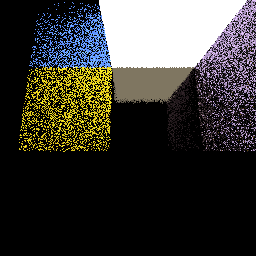
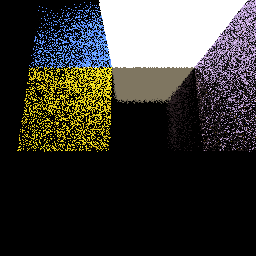
Cpu works!!

Changed region(s): [[0.0625, 0.0, 1.0, 0.5938], [0.5312, 0.25, 0.5625, 0.2812], [0.4688, 0.25, 0.5, 0.2812]]

diff --git a/src/bin.rs b/src/bin.rs
@@ -198,7 +198,7 @@ fn main() {
         Format::R16G16B16A16Unorm,
         Some(queue.family()),
     )
-    .unwrap();
+        .unwrap();
 
     let imagestep2 = StorageImage::new(
         device.clone(),
@@ -209,7 +209,7 @@ fn main() {
         Format::R16G16B16A16Unorm,
         Some(queue.family()),
     )
-    .unwrap();
+        .unwrap();
 
     let imagegpusyncdump = StorageImage::new(
         device.clone(),
@@ -1324,20 +1324,9 @@ void main() {
         let command_buffer = unsafe {
             AutoCommandBufferBuilder::primary_one_time_submit(device.clone(), queue.family())
                 .unwrap()
-                .execute_commands(cpubuffer)
+                .clear_color_image(cpuimages[image_num].clone(), vulkano::format::ClearValue::Float([0.0; 4]))
                 .unwrap()
-                .copy_image(
-                    cpuimages[image_num].clone(), //I think this forces cpuimage to have been used by the time this buffer finishes
-                    [0, 0, 0],
-                    0,
-                    0,
-                    imagegpusyncdump.clone(),
-                    [0, 0, 0],
-                    0,
-                    0,
-                    [WIDTH as u32, HEIGHT as u32, 1],
-                    1,
-                )
+                .execute_commands(cpubuffer)
                 .unwrap()
                 //.execute_commands(gpubuffer) //TODO make multiple cpuimages to fix glitches
                 //.unwrap()
